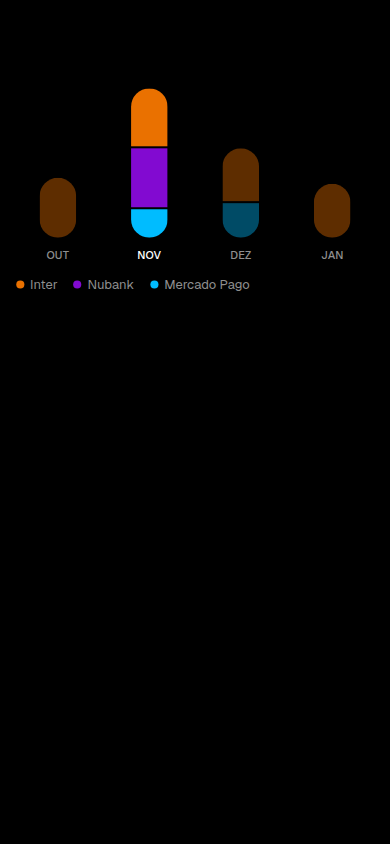
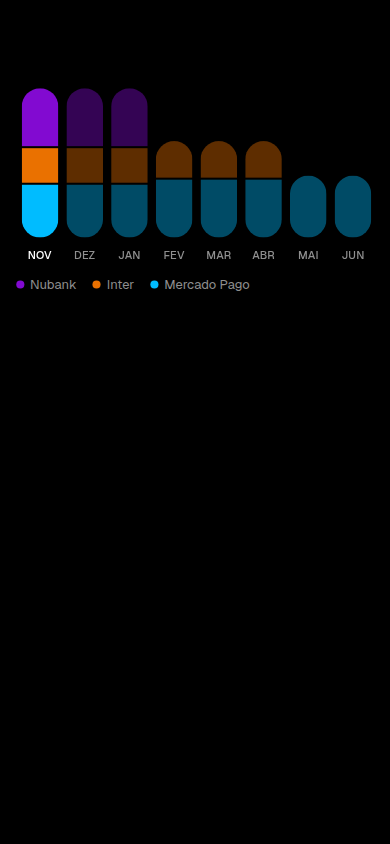
fix(mobile): gráfico de parcelas na largura do Figma
A fileira volta a ocupar a tela inteira, com o mês atual na frente e os seguintes mais claros. Os meses anteriores ficam no mesmo eixo, à esquerda, e o valor abre ao lado da barra sem encolher o gráfico.

Changed region(s): [[0.0308, 0.0924, 0.9538, 0.3697], [0.0308, 0.3081, 0.0615, 0.3389]]

diff --git a/apps/mobile/src/features/card/InstallmentsChart.tsx b/apps/mobile/src/features/card/InstallmentsChart.tsx
@@ -1,6 +1,6 @@
 import { colors, radius, spacing } from "@orbita/tokens";
-import { useState } from "react";
-import { Pressable, View } from "react-native";
+import { useEffect, useRef, useState } from "react";
+import { Pressable, ScrollView, type ScrollViewInstance, View } from "react-native";
 import { money, monthName } from "../../lib/format.ts";
 import { Text } from "../../ui/index.ts";
 import { type CardLike, cardColor, type MonthColumn, monthAbbrev } from "./card-model.ts";
@@ -9,10 +9,14 @@ import { Dot } from "./parts.tsx";
 const BAR_MAX = 150;
 const BAR_MIN = 24;
 const BAR_WIDTH = 36;
+/** Quantas colunas cabem na largura, como no Figma (mês atual + sete seguintes). */
+const VISIBLE = 8;
+const TIP_WIDTH = 156;
 
 /**
- * Parcelas por mês, empilhadas por cartão (a mesma cor do logo). O mês atual fica cheio; anteriores e
- * seguintes ficam em 40%. Tocar numa coluna abre o valor ao lado do gráfico.
+ * Parcelas por mês, empilhadas por cartão (a mesma cor do logo). A fileira ocupa a largura toda: o mês
+ * atual na frente, cheio, e os seguintes em 40%. Meses anteriores ficam à esquerda, no mesmo eixo.
+ * Tocar numa coluna abre o valor ao lado dela, sem encolher o gráfico.
  */
 export function InstallmentsChart({
 	columns,
@@ -26,68 +30,111 @@ export function InstallmentsChart({
 	currentMonth: string;
 }) {
 	const [openMonth, setOpenMonth] = useState<string | null>(null);
+	const [track, setTrack] = useState(0);
+	const [scrollX, setScrollX] = useState(0);
+	const scrollRef = useRef<ScrollViewInstance>(null);
 	const max = Math.max(1, ...columns.map((c) => c.totalCents));
 	const used = cards.filter((c) => columns.some((col) => col.byCard.some((p) => p.cardId === c.id)));
 	const open = columns.find((col) => col.month === openMonth && col.totalCents > 0) ?? null;
-	return (
-		<View style={{ gap: spacing.md }}>
-			<View style={{ flexDirection: "row", alignItems: "center", gap: spacing.md }}>
+	const futureCount = columns.filter((col) => col.month >= currentMonth).length;
+	const pastCount = columns.length - futureCount;
+	const visible = Math.min(VISIBLE, Math.max(futureCount, 1));
+	const scrollable = pastCount > 0 || futureCount > VISIBLE;
+	const slot = track > 0 ? track / (scrollable ? visible : Math.max(columns.length, 1)) : 0;
+	const startX = scrollable ? pastCount * slot : 0;
+
+	useEffect(() => {
+		if (!scrollable || slot === 0) return;
+		scrollRef.current?.scrollTo({ x: startX, y: 0, animated: false });
+		setScrollX(startX);
+	}, [scrollable, slot, startX]);
+
+	const bars = columns.map((col) => {
+		const height = col.totalCents === 0 ? 0 : Math.max(BAR_MIN, Math.round((col.totalCents / max) * BAR_MAX));
+		const current = col.month === currentMonth;
+		const expanded = open?.month === col.month;
+		const label = `${monthAbbrev(col.month)}: ${money(col.totalCents, hidden, { sign: "never" })}`;
+		return (
+			<Pressable
+				key={col.month}
+				accessibilityRole="button"
+				accessibilityLabel={expanded ? `${label}. Valor aberto` : label}
+				accessibilityState={{ expanded }}
+				disabled={col.totalCents === 0}
+				onPress={() => setOpenMonth(expanded ? null : col.month)}
+				style={
+					scrollable
+						? { width: slot, alignItems: "center", gap: 10 }
+						: { flex: 1, alignItems: "center", gap: 10 }
+				}
+			>
 				<View
 					style={{
-						flex: 1,
-						flexDirection: "row",
-						alignItems: "flex-end",
-						gap: spacing.sm,
-						paddingTop: spacing.lg,
+						width: BAR_WIDTH,
+						height,
+						gap: 2,
+						borderRadius: radius.pill,
+						overflow: "hidden",
+						opacity: current ? 1 : 0.4,
 					}}
 				>
-					{columns.map((col) => {
-						const height =
-							col.totalCents === 0 ? 0 : Math.max(BAR_MIN, Math.round((col.totalCents / max) * BAR_MAX));
-						const current = col.month === currentMonth;
-						const expanded = open?.month === col.month;
-						const label = `${monthAbbrev(col.month)}: ${money(col.totalCents, hidden, { sign: "never" })}`;
+					{col.byCard.map((p) => {
+						const card = cards.find((c) => c.id === p.cardId);
 						return (
-							<Pressable
-								key={col.month}
-								accessibilityRole="button"
-								accessibilityLabel={expanded ? `${label}. Valor aberto` : label}
-								accessibilityState={{ expanded }}
-								disabled={col.totalCents === 0}
-								onPress={() => setOpenMonth(expanded ? null : col.month)}
-								style={{ flex: 1, alignItems: "center", gap: 10 }}
-							>
-								<View
-									style={{
-										width: BAR_WIDTH,
-										height,
-										gap: 2,
-										borderRadius: radius.pill,
-										overflow: "hidden",
-										opacity: current ? 1 : 0.4,
-									}}
-								>
-									{col.byCard.map((p) => {
-										const card = cards.find((c) => c.id === p.cardId);
-										return (
-											<View
-												key={p.cardId}
-												style={{ flex: p.cents, backgroundColor: card ? cardColor(card) : colors.surface3 }}
-											/>
-										);
-									})}
-								</View>
-								<Text variant="micro" tone={expanded || current ? "primary" : "secondary"}>
-									{monthAbbrev(col.month)}
-								</Text>
-							</Pressable>
+							<View
+								key={p.cardId}
+								style={{ flex: p.cents, backgroundColor: card ? cardColor(card) : colors.surface3 }}
+							/>
 						);
 					})}
 				</View>
+				<Text variant="micro" tone={expanded || current ? "primary" : "secondary"}>
+					{monthAbbrev(col.month)}
+				</Text>
+			</Pressable>
+		);
+	});
+
+	const openIndex = open ? columns.findIndex((col) => col.month === open.month) : -1;
+	const beside =
+		openIndex < 0 || slot === 0 ? 0 : openIndex * slot - scrollX + slot / 2 + BAR_WIDTH / 2 + spacing.sm;
+	const tipLeft =
+		beside + TIP_WIDTH > track ? Math.max(0, beside - BAR_WIDTH - spacing.sm * 2 - TIP_WIDTH) : beside;
+
+	return (
+		<View style={{ gap: spacing.md }}>
+			<View style={{ position: "relative" }} onLayout={(e) => setTrack(e.nativeEvent.layout.width)}>
+				{scrollable ? (
+					<ScrollView
+						ref={scrollRef}
+						horizontal
+						showsHorizontalScrollIndicator={false}
+						scrollEventThrottle={16}
+						onScroll={(e) => setScrollX(e.nativeEvent.contentOffset.x)}
+					>
+						<View style={{ flexDirection: "row", alignItems: "flex-end", paddingTop: spacing.lg }}>
+							{bars}
+						</View>
+					</ScrollView>
+				) : (
+					<View
+						style={{
+							flexDirection: "row",
+							alignItems: "flex-end",
+							gap: spacing.sm,
+							paddingTop: spacing.lg,
+						}}
+					>
+						{bars}
+					</View>
+				)}
 				{open ? (
 					<View
 						style={{
-							width: 156,
+							position: "absolute",
+							top: spacing.lg,
+							left: tipLeft,
+							width: TIP_WIDTH,
 							backgroundColor: colors.surface,
 							borderRadius: radius.inner,
 							paddingHorizontal: spacing.md,

diff --git a/apps/mobile/src/features/card/card-model.ts b/apps/mobile/src/features/card/card-model.ts
@@ -341,14 +341,14 @@ function chartMonths(months: readonly MonthKey[], from: MonthKey, max: number): 
 }
 
 /**
- * Colunas do gráfico: meses anteriores, o atual e os seguintes (até `max`). `cardOrder` fixa a ordem das
- * fatias para a cor não pular de lugar entre meses. Sem parcela, fica só o mês atual vazio.
+ * Colunas do gráfico: meses anteriores, o atual e os seguintes (até `max`). A tela mostra oito de cada vez,
+ * começando no mês atual. `cardOrder` fixa a ordem das fatias. Sem parcela, fica só o mês atual vazio.
  */
 export function monthColumns(
 	groups: readonly InstallmentGroupLike[],
 	from: MonthKey,
 	cardOrder: readonly string[],
-	max = 12,
+	max = 24,
 ): MonthColumn[] {
 	const perMonth = new Map<MonthKey, Map<string, Cents>>();
 	for (const g of activeGroups(groups)) {
